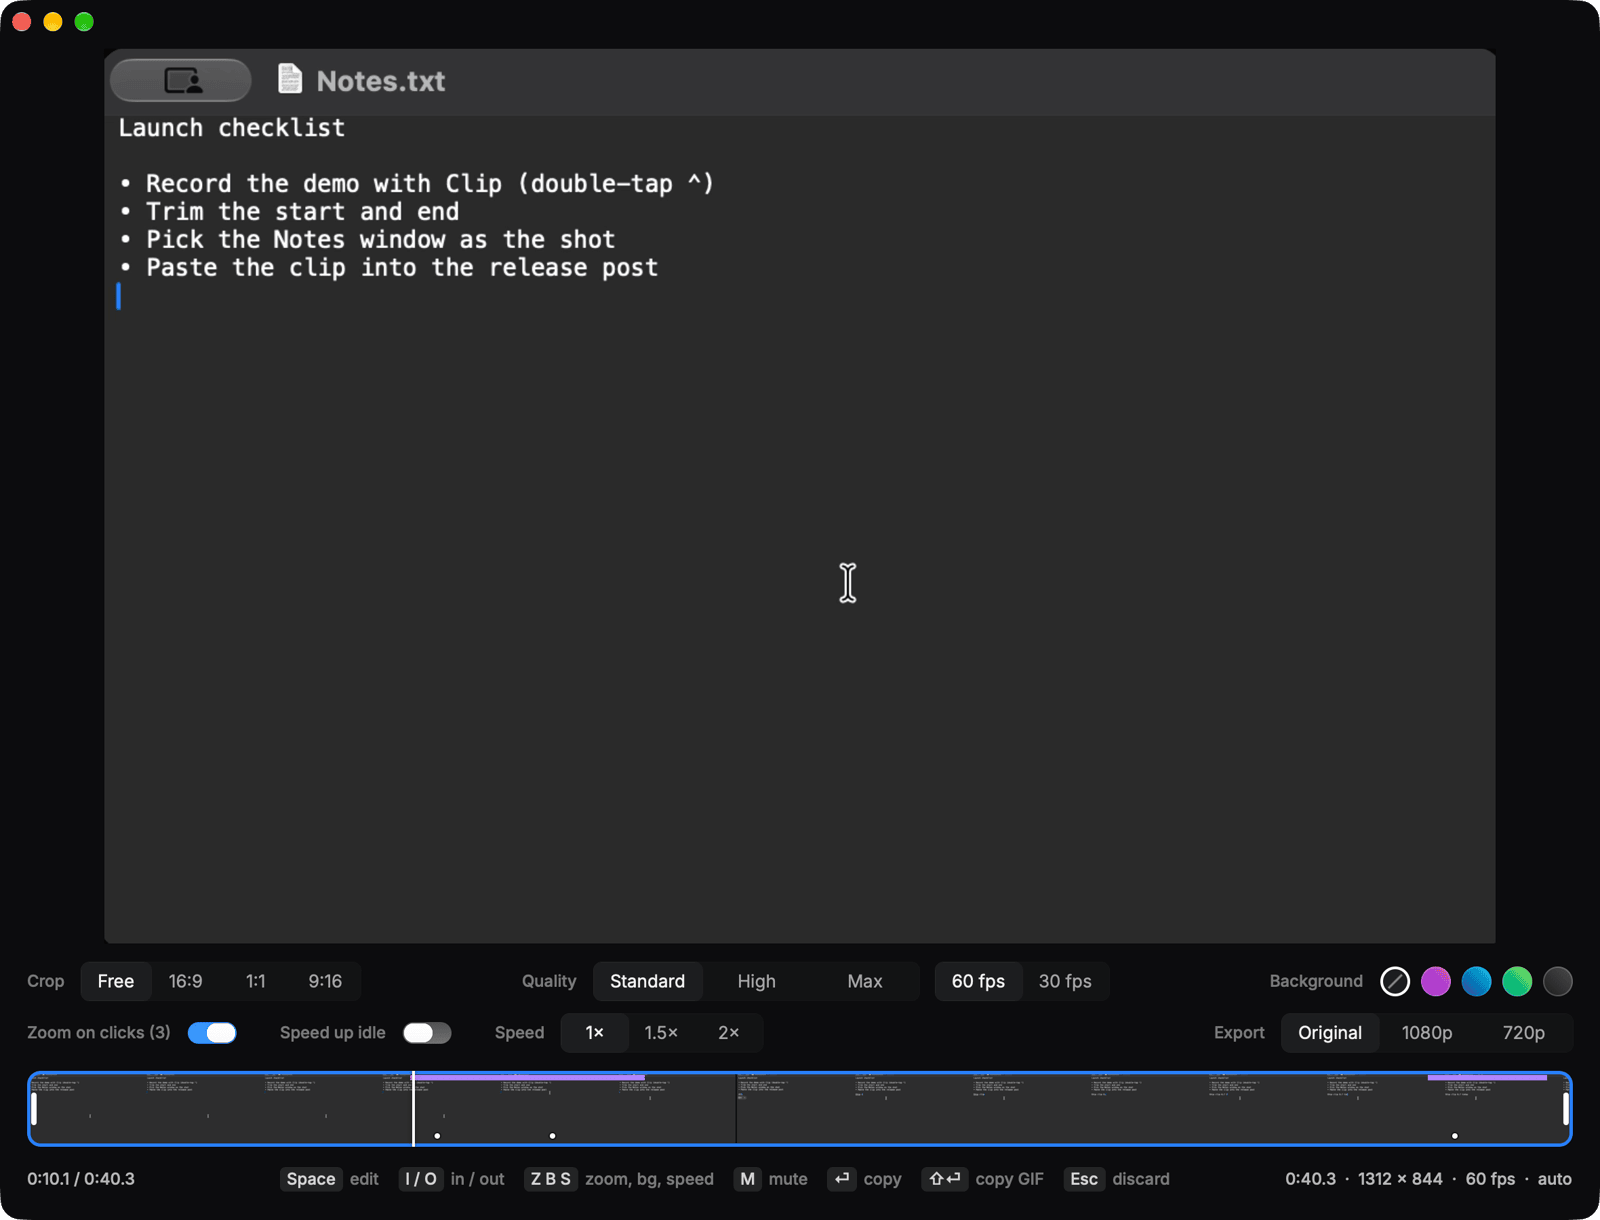
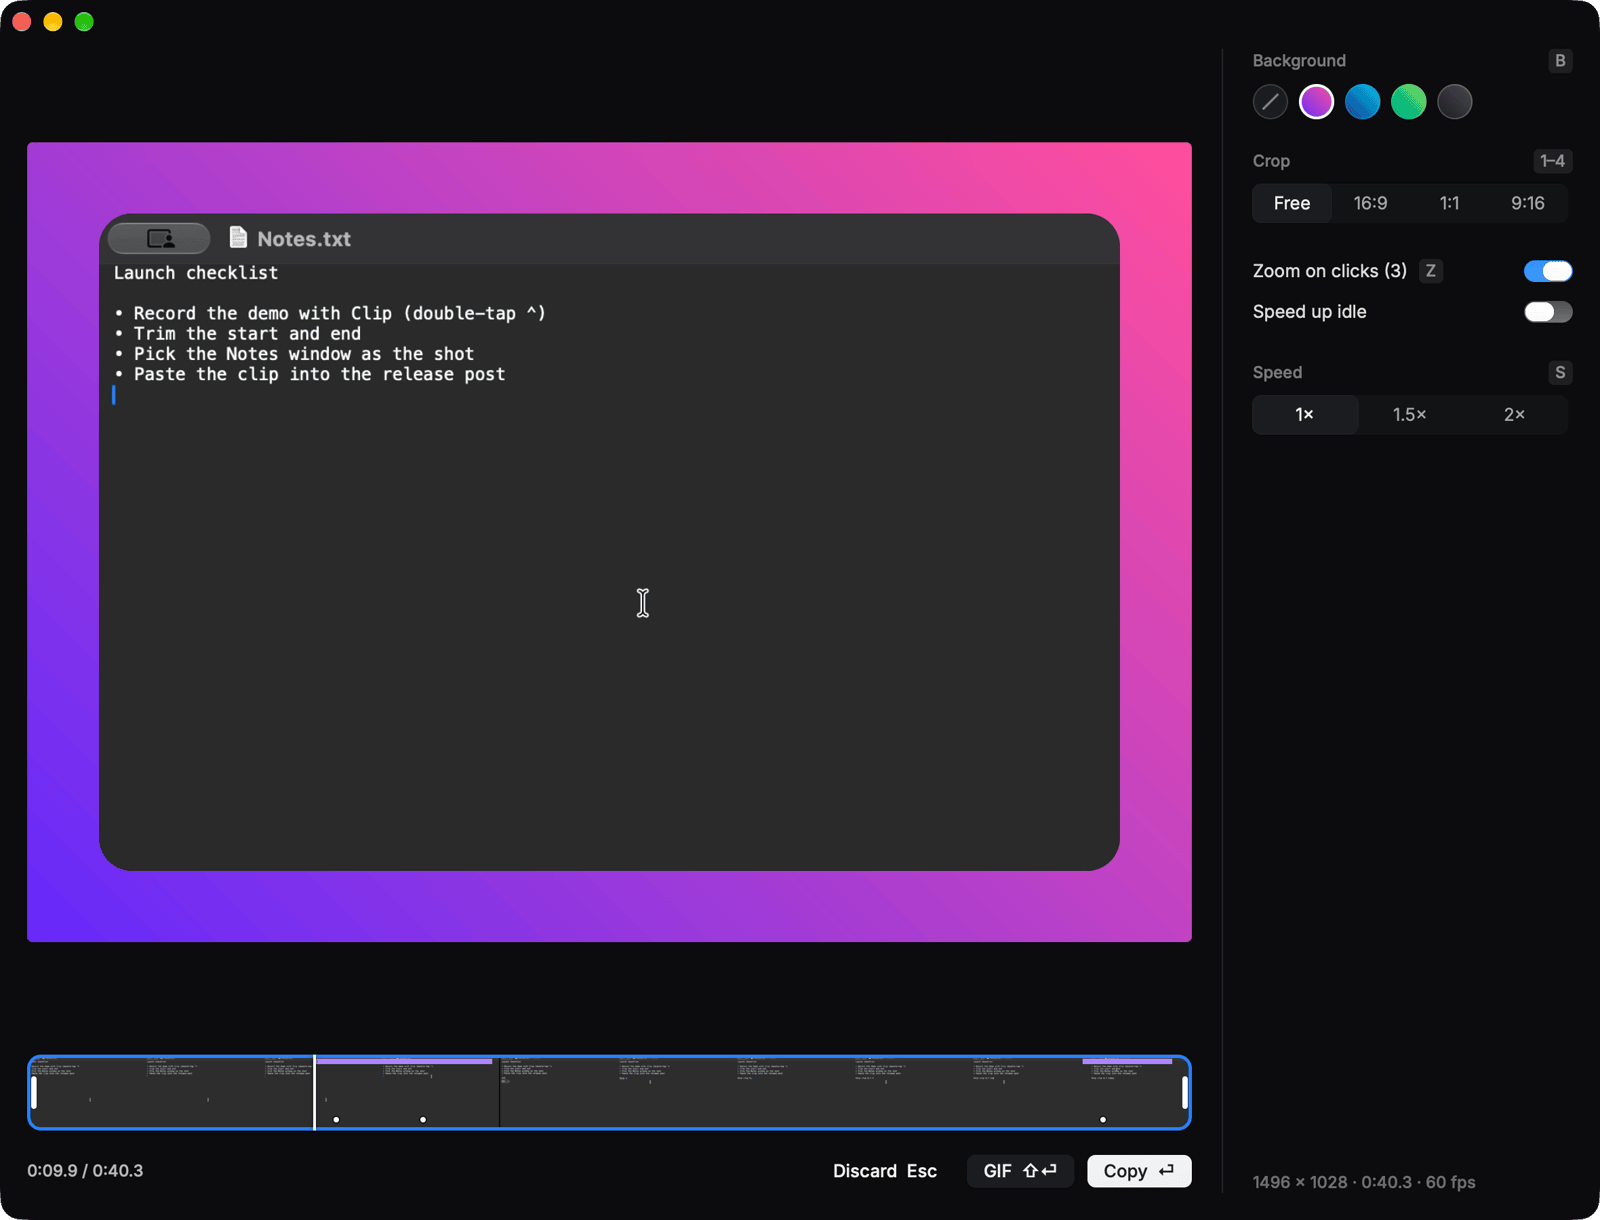
Clip 0.8.0: release notes, version, the README's review screenshot
Cargo.toml 0.8.0 for the stable release from production; notes in
docs/releases/0.8.0.md. The README's review image showed the old
two-row toolbar; it's now the new review (a demo recording, captured
from Clip's window only).

diff --git a/docs/releases/0.8.0.md b/docs/releases/0.8.0.md
@@ -1,0 +1,6 @@
+A cleaner review, and exports drawn by Clip itself.
+
+- **A simpler review.** The recording and its timeline, with **Copy ⏎**, **GIF ⇧⏎** and **Discard Esc** under them, and a narrow sidebar of what changes from clip to clip: Shot, Background, Crop, Zoom on clicks, Speed up idle and Speed. Each control shows its key. Quality, frame rate and export size live on the home window.
+- **What you preview is what you export.** Clip now draws every frame of an export itself on the GPU, the same way for the preview: backgrounds, rounded corners, shadows and zoom. Colours stay truer to the recording, and GIFs keep the clip's length exactly.
+- **No more black corners** around window recordings on a background, even zoomed in.
+- **Clearer errors.** A recording that's gone or damaged, or a clips folder Clip can't write to, now says so plainly instead of failing silently.

diff --git a/README.md b/README.md
@@ -9,7 +9,7 @@ Every recording opens in a review: trim it, crop it to 16:9, 1:1 or 9:16, zoom
 in where you clicked, speed it up, add a background, and press ⏎ to copy it as a
 video (or ⇧⏎ for a GIF), ready to paste.
 
-![Clip's review: the recording above a timeline with zoomed stretches, and crop, quality, speed, background and export options](docs/images/review.png)
+![Clip's review: the recording on a gradient above its timeline, Discard, GIF and Copy under it, and a sidebar with background, crop, zoom and speed](docs/images/review.png)
 
 <img src="docs/images/home.png" width="500" alt="Clip's home window: recent clips and recording settings">
 
